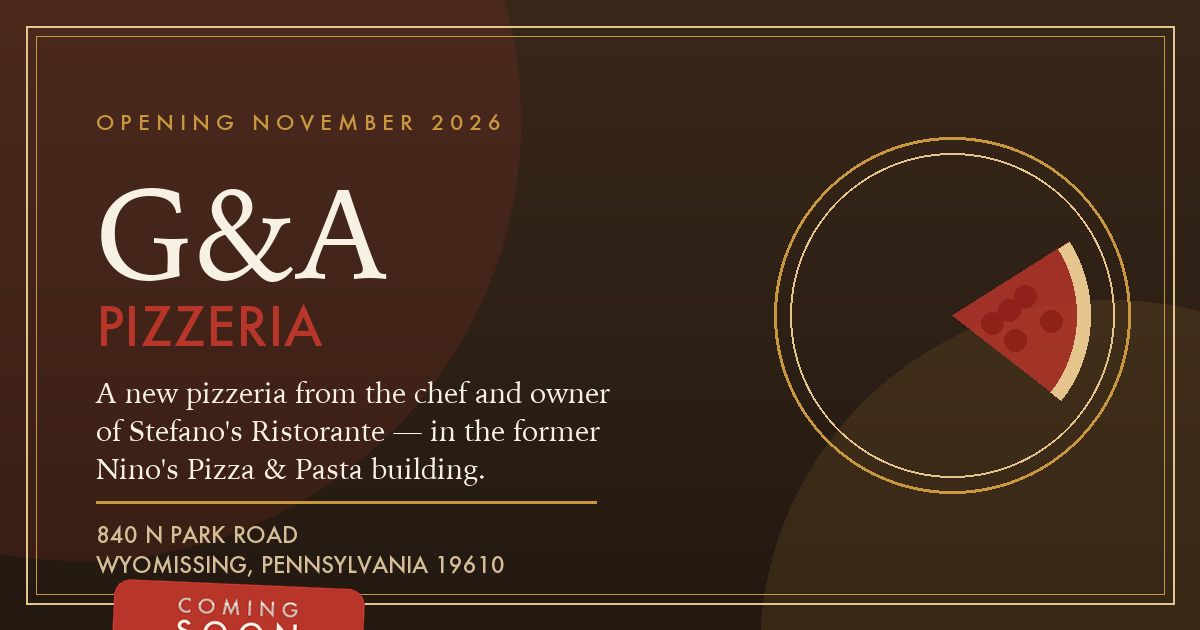
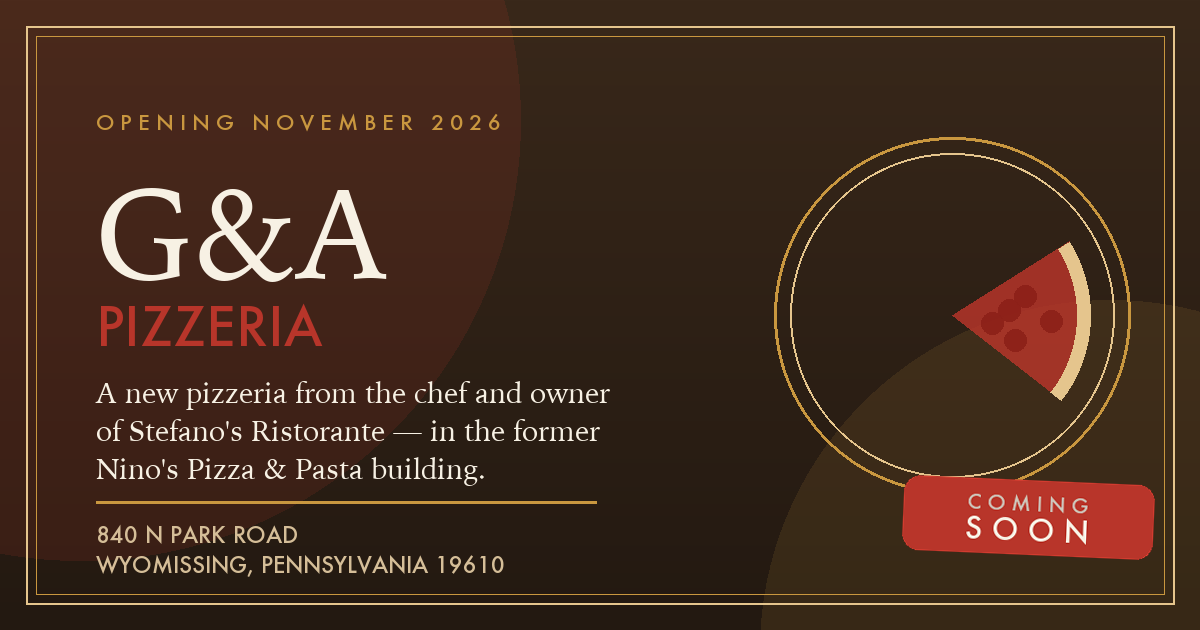
og.png badge repositioned (vision sweep defect fixed) + og-alt hero poster

Changed region(s): [[0.74, 0.754, 0.9867, 0.9048], [0.0925, 0.9048, 0.3083, 1.0]]

diff --git a/render_sweep.py b/render_sweep.py
@@ -1,0 +1,60 @@
+#!/usr/bin/env python3
+"""Render sweep for the LIVE G&A Pizzeria demo (t_0e8cb9b4).
+Playwright + real Chrome. Mobile 390x844 is_mobile at DPR 1 and 2 (scrollWidth must equal innerWidth)
+plus full-page screenshots at 390 (x2) and 1280 (x1) saved to shots/ for the vision battery."""
+import glob, os, sys, json
+from playwright.sync_api import sync_playwright
+
+URL = (sys.argv[1] if len(sys.argv) > 1 else "https://g-a-pizzeria-demo.up.railway.app").rstrip("/")
+HERE = os.path.dirname(os.path.abspath(__file__))
+SHOTS = os.path.join(HERE, "shots")
+os.makedirs(SHOTS, exist_ok=True)
+CHROME = "/Applications/Google Chrome.app/Contents/MacOS/Google Chrome"
+UA = ("Mozilla/5.0 (iPhone; CPU iPhone OS 17_0 like Mac OS X) AppleWebKit/605.1.15 "
+      "(KHTML, like Gecko) Version/17.0 Mobile/15E148 Safari/604.1")
+PAGES = [("/" if os.path.basename(p) == "index.html" else "/" + os.path.basename(p)[:-5])
+         for p in sorted(glob.glob(os.path.join(HERE, "public", "*.html")))]
+
+def main():
+    bad = []
+    with sync_playwright() as pw:
+        b = pw.chromium.launch(headless=True, executable_path=CHROME, args=["--no-sandbox"])
+        # overflow gates: mobile x1 / x2
+        for scale, label in ((1, "x1"), (2, "x2")):
+            ctx = b.new_context(viewport={"width": 390, "height": 844}, device_scale_factor=scale,
+                                is_mobile=True, user_agent=UA)
+            pg = ctx.new_page()
+            for path in PAGES:
+                try:
+                    pg.goto(URL + path, wait_until="networkidle", timeout=45000)
+                    d = json.loads(pg.evaluate("JSON.stringify({sw:document.documentElement.scrollWidth,iw:innerWidth})"))
+                except Exception as e:
+                    d = {"sw": -1, "iw": -1}
+                    print("GOTO ERR", path, repr(e)[:80])
+                ok = 0 < d["iw"] and d["sw"] <= d["iw"] + 1
+                print("%s-390 %-36s sw=%-5d iw=%d %s" % (label, path, d["sw"], d["iw"], "OK" if ok else "OVERFLOW"))
+                if not ok:
+                    bad.append((label, path, d["sw"], d["iw"]))
+            ctx.close()
+        # mobile full-page shots (DPR2)
+        ctx = b.new_context(viewport={"width": 390, "height": 844}, device_scale_factor=2,
+                            is_mobile=True, user_agent=UA)
+        pg = ctx.new_page()
+        for path in PAGES:
+            pg.goto(URL + path, wait_until="networkidle", timeout=45000)
+            pg.screenshot(path=os.path.join(SHOTS, ("m_" + path.strip("/").replace("/", "-") or "home") + ".png"), full_page=True)
+        ctx.close()
+        # desktop full-page shots (1280)
+        ctx = b.new_context(viewport={"width": 1280, "height": 900}, device_scale_factor=1)
+        pg = ctx.new_page()
+        for path in PAGES:
+            pg.goto(URL + path, wait_until="networkidle", timeout=45000)
+            pg.screenshot(path=os.path.join(SHOTS, ("d_" + path.strip("/").replace("/", "-") or "home") + ".png"), full_page=True)
+        ctx.close()
+        b.close()
+    print("SHOTS ->", SHOTS)
+    print("SWEEP:", "CLEAN" if not bad else "FAILURES %r" % bad)
+    sys.exit(1 if bad else 0)
+
+if __name__ == "__main__":
+    main()

diff --git a/make_og.py b/make_og.py
@@ -79,7 +79,7 @@ bd.text((bw // 2 + 12, bh // 2 + 12 - 14), "C O M I N G", font=sans(20), fill=(2
 bd.text((bw // 2 + 12, bh // 2 + 12 + 12), "S O O N", font=sans(30), fill=(247, 241, 228, 255), anchor="mm")
 badge = badge.rotate(-2.5, expand=True, resample=Image.BICUBIC)
 bw2, bh2 = badge.size
-img.paste(badge, (tx + 2, 566), badge.convert("RGBA"))
+img.paste(badge, (888, 462), badge.convert("RGBA"))
 
 img.save(OUT, "PNG", optimize=True)
 print("wrote", OUT, img.size, os.path.getsize(OUT), "bytes")
